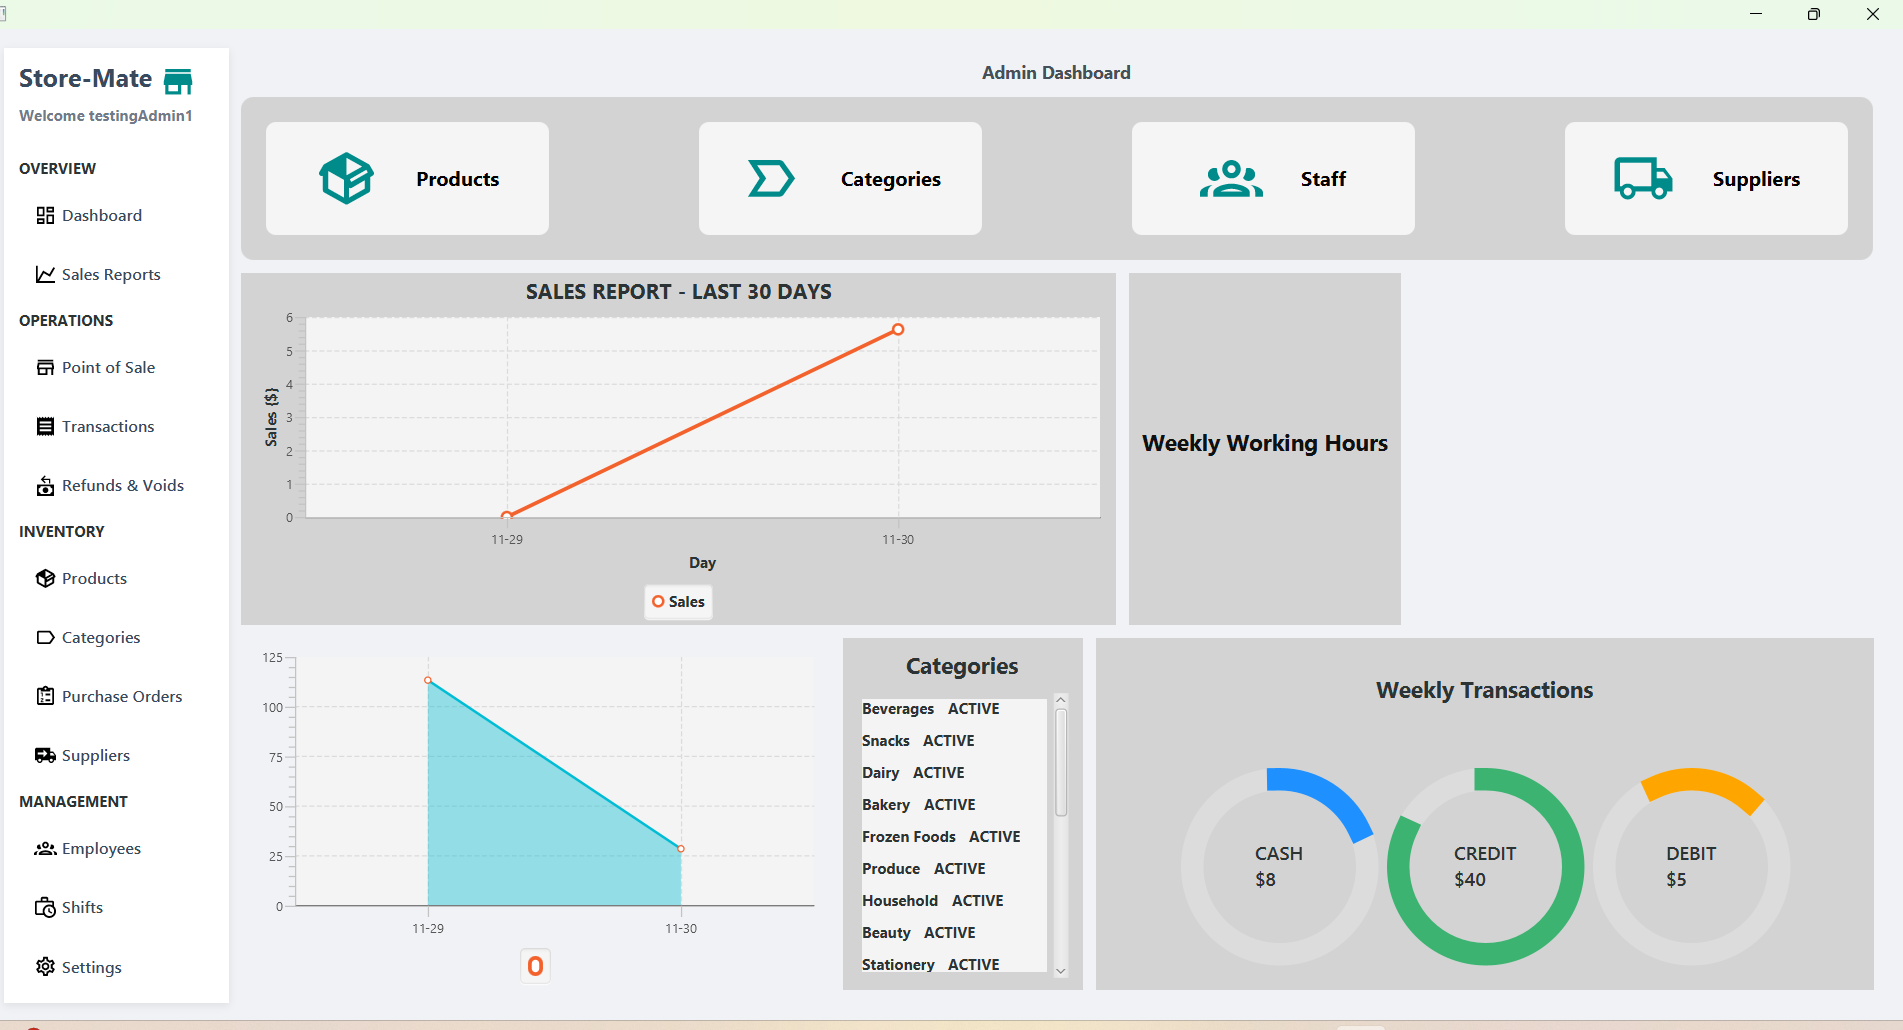
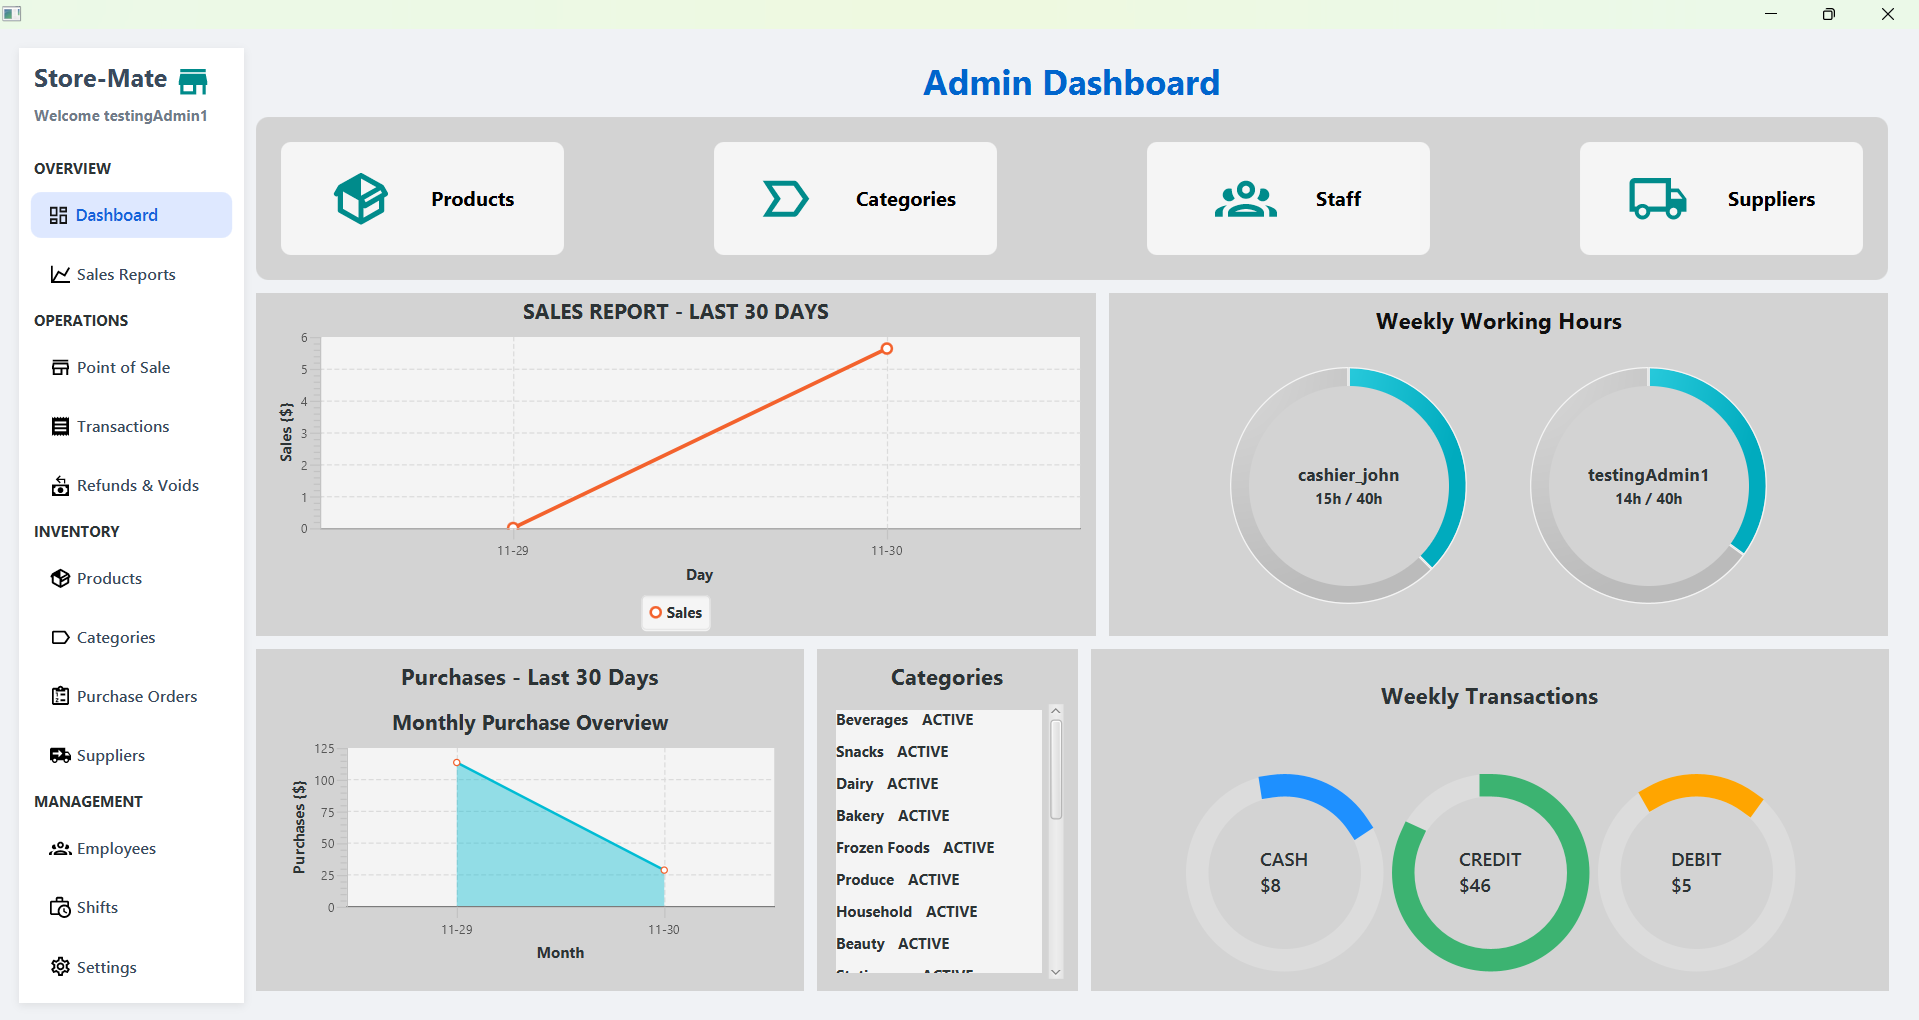
Updated dashboard image

diff --git a/Readme.md b/Readme.md
@@ -15,21 +15,21 @@ Click below to watch a full walkthrough of StoreMate POS:
 
 Here’s a visual overview of the major pages and features of Store-Mate POS:
 
-| Feature / Page | Screenshot / Demo                |
-|----------------|----------------------------------|
-| Dashboard | ![Dashboard](assets/dashboard.png) |
+| Feature / Page | Screenshot / Demo                        |
+|----------------|------------------------------------------|
+| Dashboard | ![Dashboard](assets/dashboard.png)       |
 | Sales Report | ![Sales Report](assets/sales-report.png) |
-| Point of Sales - Sales Mode | ![POS Sales](assets/pos.png)     |
-| Point of Sales - Returns Mode | ![POS Returns](assets/pos.png)   |
+| Point of Sales - Sales Mode | ![POS Sales](assets/pos.png)             |
+| Point of Sales - Returns Mode | ![POS Returns](assets/pos.png)           |
 | Transactions | ![Transactions](assets/transactions.png) |
-| Refunds & Voids | ![Refunds](assets/refunds.png)   |
-| Purchases | ![Purchases](assets/purchases.png) |
-| Products (CRUD) | ![Products](assets/products.png) |
-| Categories (CRUD) | ![Categories](assets/categories.png) |
-| Suppliers (CRUD) | ![Suppliers](assets/suppliers.png) |
-| Staff / Employees | ![Staff](assets/staff.png)       |
-| Shifts | ![Shifts](assets/shift.png)      |
-| Settings - User Profile | ![Settings](assets/settings.png) |
+| Refunds & Voids | ![Refunds](assets/refunds.png)           |
+| Purchases | ![Purchases](assets/purchases.png)       |
+| Products (CRUD) | ![Products](assets/products.png)         |
+| Categories (CRUD) | ![Categories](assets/categories.png)     |
+| Suppliers (CRUD) | ![Suppliers](assets/suppliers.png)       |
+| Staff / Employees | ![Staff](assets/staff.png)               |
+| Shifts | ![Shifts](assets/shift.png)              |
+| Settings - User Profile | ![Settings](assets/settings.png)         |
 
 
 ## 🛠 Features
